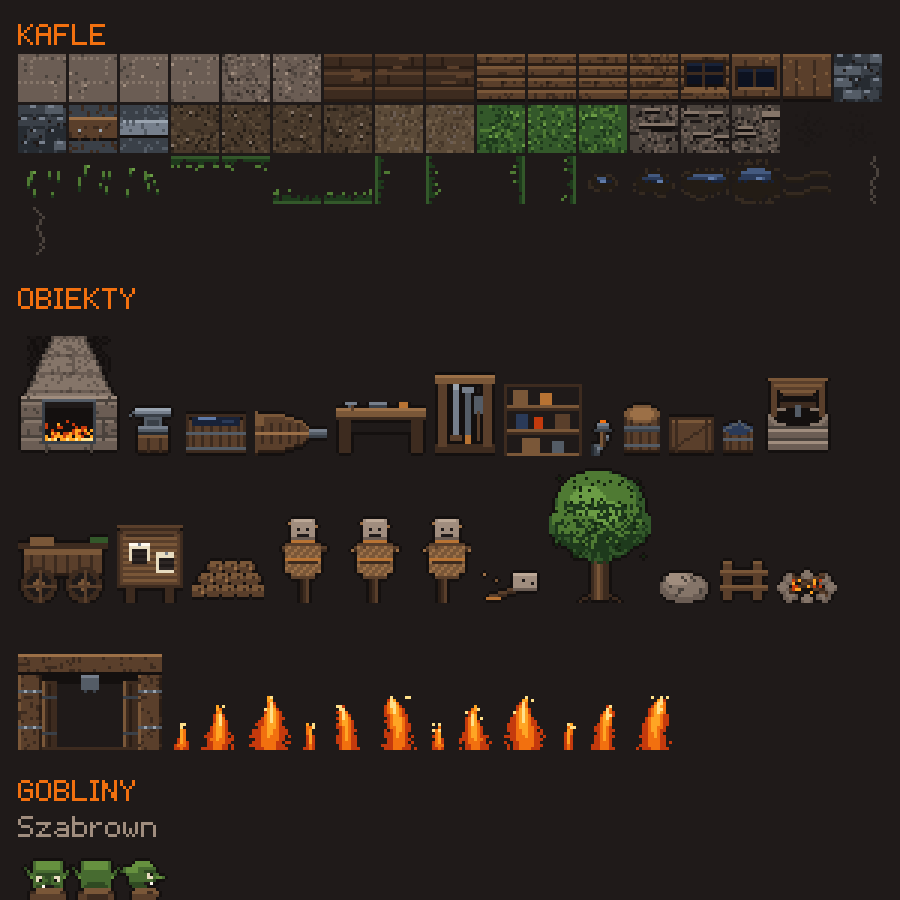
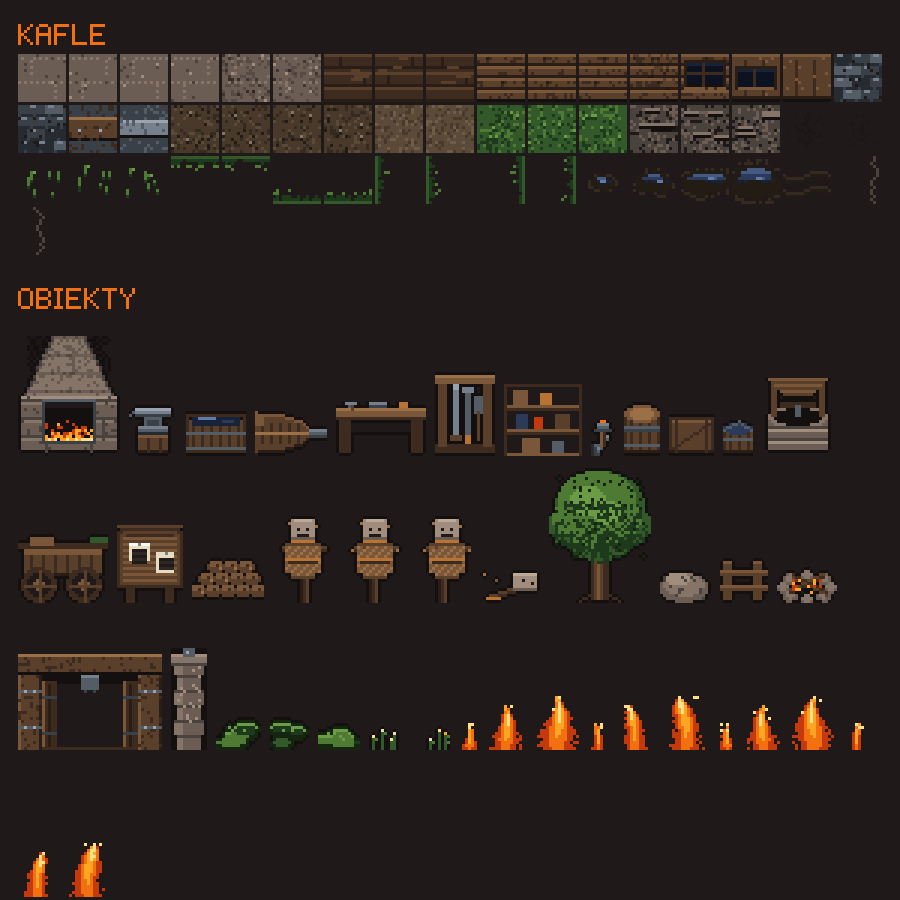
Deszcz nadaza za kamera, bramy widac, las ma polany i krzaki
1. DESZCZ. Krople stoja w swiecie, a kadr od nich ucieka - biegnac widac
   pusty pas z tej strony, w ktora sie idzie. Krople jada teraz razem
   z kamera; pryśniecia zostaja w swiecie, bo one dotykaja ziemi.
   Przezroczystosc mocno w dol (0,16-0,28 zamiast 0,34-0,54): deszcz ma byc
   warstwa, przez ktora widac gre, a nie firanka przed nia.

2. BRAMY. Przejscie przez mur bylo dziura w skale - nie bylo widac, gdzie
   konczy sie strefa bezpieczna. Kazda brama dostala dwa kamienne slupy
   z okuciem. Przekroczenie granicy PvP ma byc decyzja, a decyzja wymaga
   widocznej granicy.

3. LAS. Byly same drzewa o rownej gestosci - sciana, po ktorej sie chodzi,
   a nie miejsce, przez ktore sie idzie.
   - POLANY: osobne, rzadsze pole szumu, na ktorym drzewa nie rosna. Daja
     przeswit dla oka, miejsce do walki i kontrast, ktory przyciaga.
   - KRZAKI I KWIATY wypelniaja poziom, na ktorym nic nie bylo: miedzy
     trawa przy ziemi a koronami wysoko. To one, a nie drzewa, sprawiaja,
     ze polana przestaje byc lysina. 1520 krzakow i 493 kepy kwiatow.
   - drzew mniej (861 zamiast 1210) i z wiekszym odstepem.

Changed region(s): [[0.1867, 0.7156, 0.9644, 0.84], [0.0, 0.8711, 0.1867, 1.0]]

diff --git a/tools/art/props.js b/tools/art/props.js
@@ -608,6 +608,98 @@ function gateArch() {
   return finish(t);
 }
 
+/**
+ * Słup bramy — kamienny filar z okuciem i pochodnią u szczytu.
+ *
+ * Stoi po obu stronach każdego przejścia przez mur. Bez niego wyjście z miasta
+ * jest **dziurą w skale**: gracz nie widzi, gdzie kończy się strefa bezpieczna,
+ * a przekroczenie granicy PvP ma być decyzją, nie przypadkiem. Dwa filary robią
+ * z otworu bramę i to one niosą całą informację.
+ */
+function gatePost(name) {
+  const rng = rngFor(name);
+  const t = new Canvas(12, 34);
+
+  // Trzon z ciosanego kamienia, warstwami — równy filar wygląda jak słupek.
+  for (let y = 4; y < 34; y++) {
+    const warstwa = Math.floor((y - 4) / 5);
+    const wcięcie = warstwa % 2 === 0 ? 0 : 1;
+    for (let x = 1 + wcięcie; x < 11 - wcięcie; x++) {
+      const jasne = x < 4;
+      t.px(x, y, c('stone', jasne ? 2 : 1));
+    }
+    // Spoina między warstwami.
+    if ((y - 4) % 5 === 0) t.hline(1 + wcięcie, 10 - wcięcie, y, c('stone', 0));
+  }
+  t.speckle(rng, c('stone', 3), 0.08, { x: 1, y: 4, w: 10, h: 30 });
+
+  // Głowica: szersza płyta z okuciem.
+  t.rect(0, 2, 12, 4, c('stone', 2));
+  t.hline(0, 11, 2, c('stone', 3));
+  t.hline(0, 11, 5, c('stone', 0));
+  t.rect(4, 0, 4, 3, c('iron', 2));
+  t.px(5, 1, c('iron', 4));
+
+  return finish(t.outline(c('soot', 0)));
+}
+
+/**
+ * Krzak — kępa liści bez pnia, przez którą da się przejść.
+ *
+ * Sam las z drzew jest ścianą i jednym rodzajem kształtu. Krzaki wypełniają
+ * poziom, na którym nic nie było: między trawą przy ziemi a koronami wysoko.
+ * To one, a nie drzewa, sprawiają, że polana przestaje być łysiną.
+ */
+function bush(name) {
+  const rng = rngFor(name);
+  const w = rng.between(12, 18);
+  const h = rng.between(9, 13);
+  const t = new Canvas(w, h);
+  const cx = w / 2;
+
+  // Kilka nachodzących na siebie kęp — jedna elipsa wygląda jak zielona poduszka.
+  const kepy = rng.between(3, 4);
+  for (let i = 0; i < kepy; i++) {
+    const ex = rng.between(3, w - 4);
+    const ey = rng.between(4, h - 2);
+    const rx = rng.between(3, 5);
+    const ry = rng.between(2, 4);
+    const odcien = rng.between(1, 3);
+    t.ellipse(ex, ey, rx, ry, c('foliage', odcien));
+  }
+  // Światło na wierzchu, cień u dołu — inaczej krzak jest płaską plamą.
+  for (let x = 0; x < w; x++) {
+    for (let y = 0; y < h; y++) {
+      if (!t.alphaAt(x, y)) continue;
+      if (!t.alphaAt(x, y - 1) && y < h * 0.55) t.px(x, y, c('foliage', 4));
+      if (!t.alphaAt(x, y + 1)) t.px(x, y, c('foliage', 0));
+    }
+  }
+  // Kilka gałązek wystających poza obrys — równa kępa wygląda jak strzyżona.
+  for (let i = 0; i < 4; i++) {
+    const gx = rng.between(2, w - 3);
+    const gy = rng.between(2, Math.floor(h * 0.6));
+    t.px(gx, gy, c('foliage', 4));
+  }
+  return finish(t.outline(c('foliage', 0)));
+}
+
+/** Kwiaty — kilka łodyg z barwnymi główkami. Drobiazg, ale to on daje kolor. */
+function flowers(name) {
+  const rng = rngFor(name);
+  const t = new Canvas(12, 9);
+  const barwy = [c('ember', 4), c('parchment'), c('ember', 3), c('night', 4)];
+
+  for (let i = 0; i < rng.between(3, 5); i++) {
+    const x = rng.between(1, 10);
+    const h = rng.between(3, 6);
+    for (let y = 0; y < h; y++) t.px(x, 8 - y, c('foliage', 2));
+    t.px(x, 8 - h, rng.pick(barwy));
+    if (rng.chance(0.5)) t.px(x + 1, 8 - h + 1, c('foliage', 3));
+  }
+  return finish(t);
+}
+
 // --- Ogień (klatki animacji) --------------------------------------------------
 
 /**
@@ -675,6 +767,9 @@ export function buildProps() {
   add('fence', fence());
   add('campfire', campfire());
   add('gate', gateArch());
+  add('gatepost', gatePost('gatepost'));
+  for (let i = 0; i < 3; i++) add(`bush${i}`, bush(`bush${i}`));
+  for (let i = 0; i < 2; i++) add(`flowers${i}`, flowers(`flowers${i}`));
 
   for (let f = 0; f < 4; f++) {
     add(`flame_small_${f}`, flame(6, 9, f, 'small'));

diff --git a/client/src/world/forge.js b/client/src/world/forge.js
@@ -12,7 +12,7 @@
 //   34-35  skalna granica
 
 import { makeRng, seedFrom } from '../util/rng.js';
-import { field, scatter, REGIONS } from './terrain.js';
+import { field, scatter, REGIONS, inClearing } from './terrain.js';
 
 /**
  * Kukła treningowa na placu, na prawo od bramy.
@@ -695,6 +695,20 @@ function buildWildProps(tiles) {
     return true;
   };
 
+  // Słupy przy każdej bramie — po jednym z każdej strony przejścia. To one robią
+  // z otworu w skale bramę: bez nich nie widać, gdzie kończy się miasto.
+  for (const gate of GATES) {
+    const px = gate.x * TILE;
+    const py = gate.y * TILE;
+    if (gate.key === 'south') {
+      out.push({ key: 'gatepost', x: px - 6, y: py + gate.h * TILE, body: { w: 12, h: 8 } });
+      out.push({ key: 'gatepost', x: px + gate.w * TILE + 6, y: py + gate.h * TILE, body: { w: 12, h: 8 } });
+    } else {
+      out.push({ key: 'gatepost', x: px + gate.w * TILE / 2, y: py - 4, body: { w: 12, h: 8 } });
+      out.push({ key: 'gatepost', x: px + gate.w * TILE / 2, y: py + gate.h * TILE + 16, body: { w: 12, h: 8 } });
+    }
+  }
+
   for (const region of REGIONS) {
     // Prostokąt obszaru: wszystko poza miastem po danej stronie.
     const box = region.dir === 'south'
@@ -703,10 +717,12 @@ function buildWildProps(tiles) {
         ? { x0: 3 * TILE, y0: 3 * TILE, x1: (CITY_OX - 1) * TILE, y1: (CITY_OY + CITY_H) * TILE }
         : { x0: (CITY_OX + CITY_W + 1) * TILE, y0: 3 * TILE, x1: (MAP_W - 3) * TILE, y1: (CITY_OY + CITY_H) * TILE };
 
-    // Drzewa: minimalny odstęp 34 px, więc korony się nie zlewają, a gęstość
-    // steruje szumem — stąd biorą się gęstwiny i polany.
-    const drzewa = scatter(rng, box, 34, 2600, (x, y) =>
-      wolne(x, y) && field(x / TILE, y / TILE, 1.3) < region.tree);
+    // Drzewa: minimalny odstęp 40 px, więc korony się nie zlewają, a gęstość
+    // steruje szumem — stąd biorą się gęstwiny. **Na polanach nie rosną.**
+    const drzewa = scatter(rng, box, 40, 2400, (x, y) =>
+      wolne(x, y)
+      && !inClearing(x / TILE, y / TILE)
+      && field(x / TILE, y / TILE, 1.3) < region.tree);
     for (const p of drzewa) {
       out.push({ key: 'tree', x: Math.round(p.x), y: Math.round(p.y), body: { w: 8, h: 8 } });
     }
@@ -716,6 +732,16 @@ function buildWildProps(tiles) {
       wolne(x, y) && field(x / TILE, y / TILE, 4.1) < region.rock);
     for (const p of glazy) {
       out.push({ key: 'boulder', x: Math.round(p.x), y: Math.round(p.y), body: { w: 14, h: 7 } });
+    }
+
+    // Krzaki: **wchodzą także na polany** i to jest ich zadanie. Polana bez
+    // niczego jest łysiną; polana z krzakami i kwiatami jest miejscem.
+    // Nie zastawiają drogi ciałem — przez krzak da się przejść.
+    const krzaki = scatter(rng, box, 22, 3000, (x, y) =>
+      wolne(x, y) && field(x / TILE, y / TILE, 6.2) < region.bush);
+    for (const p of krzaki) {
+      const kind = rng.chance(0.75) ? `bush${rng.int(3)}` : `flowers${rng.int(2)}`;
+      out.push({ key: kind, x: Math.round(p.x), y: Math.round(p.y) });
     }
   }
 
@@ -819,6 +845,7 @@ export function creatureAt(world, x0, y0, x1, y1) {
   }
   return null;
 }
+
 
 
 

diff --git a/client/src/render/rain.js b/client/src/render/rain.js
@@ -85,6 +85,29 @@ export class Rain {
     if (this.level < 0.01 && this.drops.length === 0 && this.splashes.length === 0) return;
 
     const view = this.scene.cameras.main.worldView;
+
+    // Krople jadą **razem z kamerą**.
+    //
+    // Bez tego deszcz stoi w świecie, a kadr od niego ucieka: biegnąc widać
+    // pusty pas z tej strony, w którą się idzie, i kroplami trzeba czekać, aż
+    // się dosypią. Przesuwając je o ruch kamery mamy pełny deszcz w każdej
+    // klatce — a że kropla i tak leci w dół z własną prędkością, nikt nie
+    // zauważy, że jej tor jest liczony względem ekranu.
+    //
+    // Pryśnięcia zostają w świecie: one **dotykają ziemi** i mają zostać tam,
+    // gdzie spadły.
+    const dx = view.x - (this.lastViewX ?? view.x);
+    const dy = view.y - (this.lastViewY ?? view.y);
+    this.lastViewX = view.x;
+    this.lastViewY = view.y;
+    if (dx || dy) {
+      for (const drop of this.drops) {
+        drop.x += dx;
+        drop.y += dy;
+        drop.landY += dy;
+      }
+    }
+
     const want = Math.round(MAX_DROPS * this.level);
 
     // Przy pierwszym uzupełnianiu rozstawiamy krople na całej wysokości kadru,
@@ -95,7 +118,10 @@ export class Rain {
     if (this.drops.length > want) this.drops.length = want;
 
     const wind = SLANT * (0.8 + 0.35 * Math.sin(this.scene.time.now * 0.0004));
-    this.sheet.lineStyle(1, DROP_COLOR, 0.34 + 0.2 * this.level);
+    // Przezroczystość niższa, niż podpowiada intuicja: deszcz ma być warstwą,
+    // przez którą widać grę, a nie firanką przed nią. Poprzednia wartość
+    // dochodziła do 0,54 i zasłaniała świat.
+    this.sheet.lineStyle(1, DROP_COLOR, 0.16 + 0.12 * this.level);
 
     for (const drop of this.drops) {
       const step = drop.speed * dt;

diff --git a/client/src/world/terrain.js b/client/src/world/terrain.js
@@ -18,10 +18,24 @@ import { makeRng, seedFrom } from '../util/rng.js';
  * surowiec** — dwa obozy bandytów obok siebie to jeden obóz widziany dwa razy.
  */
 export const REGIONS = [
-  { key: 'las', dir: 'south', ground: 'grass', tree: 0.72, rock: 0.06 },
-  { key: 'skalisko', dir: 'west', ground: 'dirt', tree: 0.12, rock: 0.8 },
-  { key: 'mokradla', dir: 'east', ground: 'dirt', tree: 0.38, rock: 0.1 },
+  { key: 'las', dir: 'south', ground: 'grass', tree: 0.62, rock: 0.06, bush: 0.5 },
+  { key: 'skalisko', dir: 'west', ground: 'dirt', tree: 0.12, rock: 0.7, bush: 0.2 },
+  { key: 'mokradla', dir: 'east', ground: 'dirt', tree: 0.34, rock: 0.1, bush: 0.62 },
 ];
+
+/**
+ * Polany.
+ *
+ * Las o równej gęstości jest ścianą, po której się chodzi, a nie miejscem, przez
+ * które się idzie — użytkownik nazwał to wprost: „gęsto te drzewa". Polana daje
+ * trzy rzeczy naraz: **prześwit dla oka**, miejsce, w którym da się walczyć,
+ * i kontrast, który przyciąga — bo jest jaśniejsza od otoczenia.
+ *
+ * Osobne, rzadsze pole szumu: duże plamy, w których nic nie rośnie.
+ */
+export function inClearing(x, y) {
+  return field(x, y, 8.9) > 0.66;
+}
 
 /**
  * Rozrzut z **wymuszonym minimalnym odstępem**.
